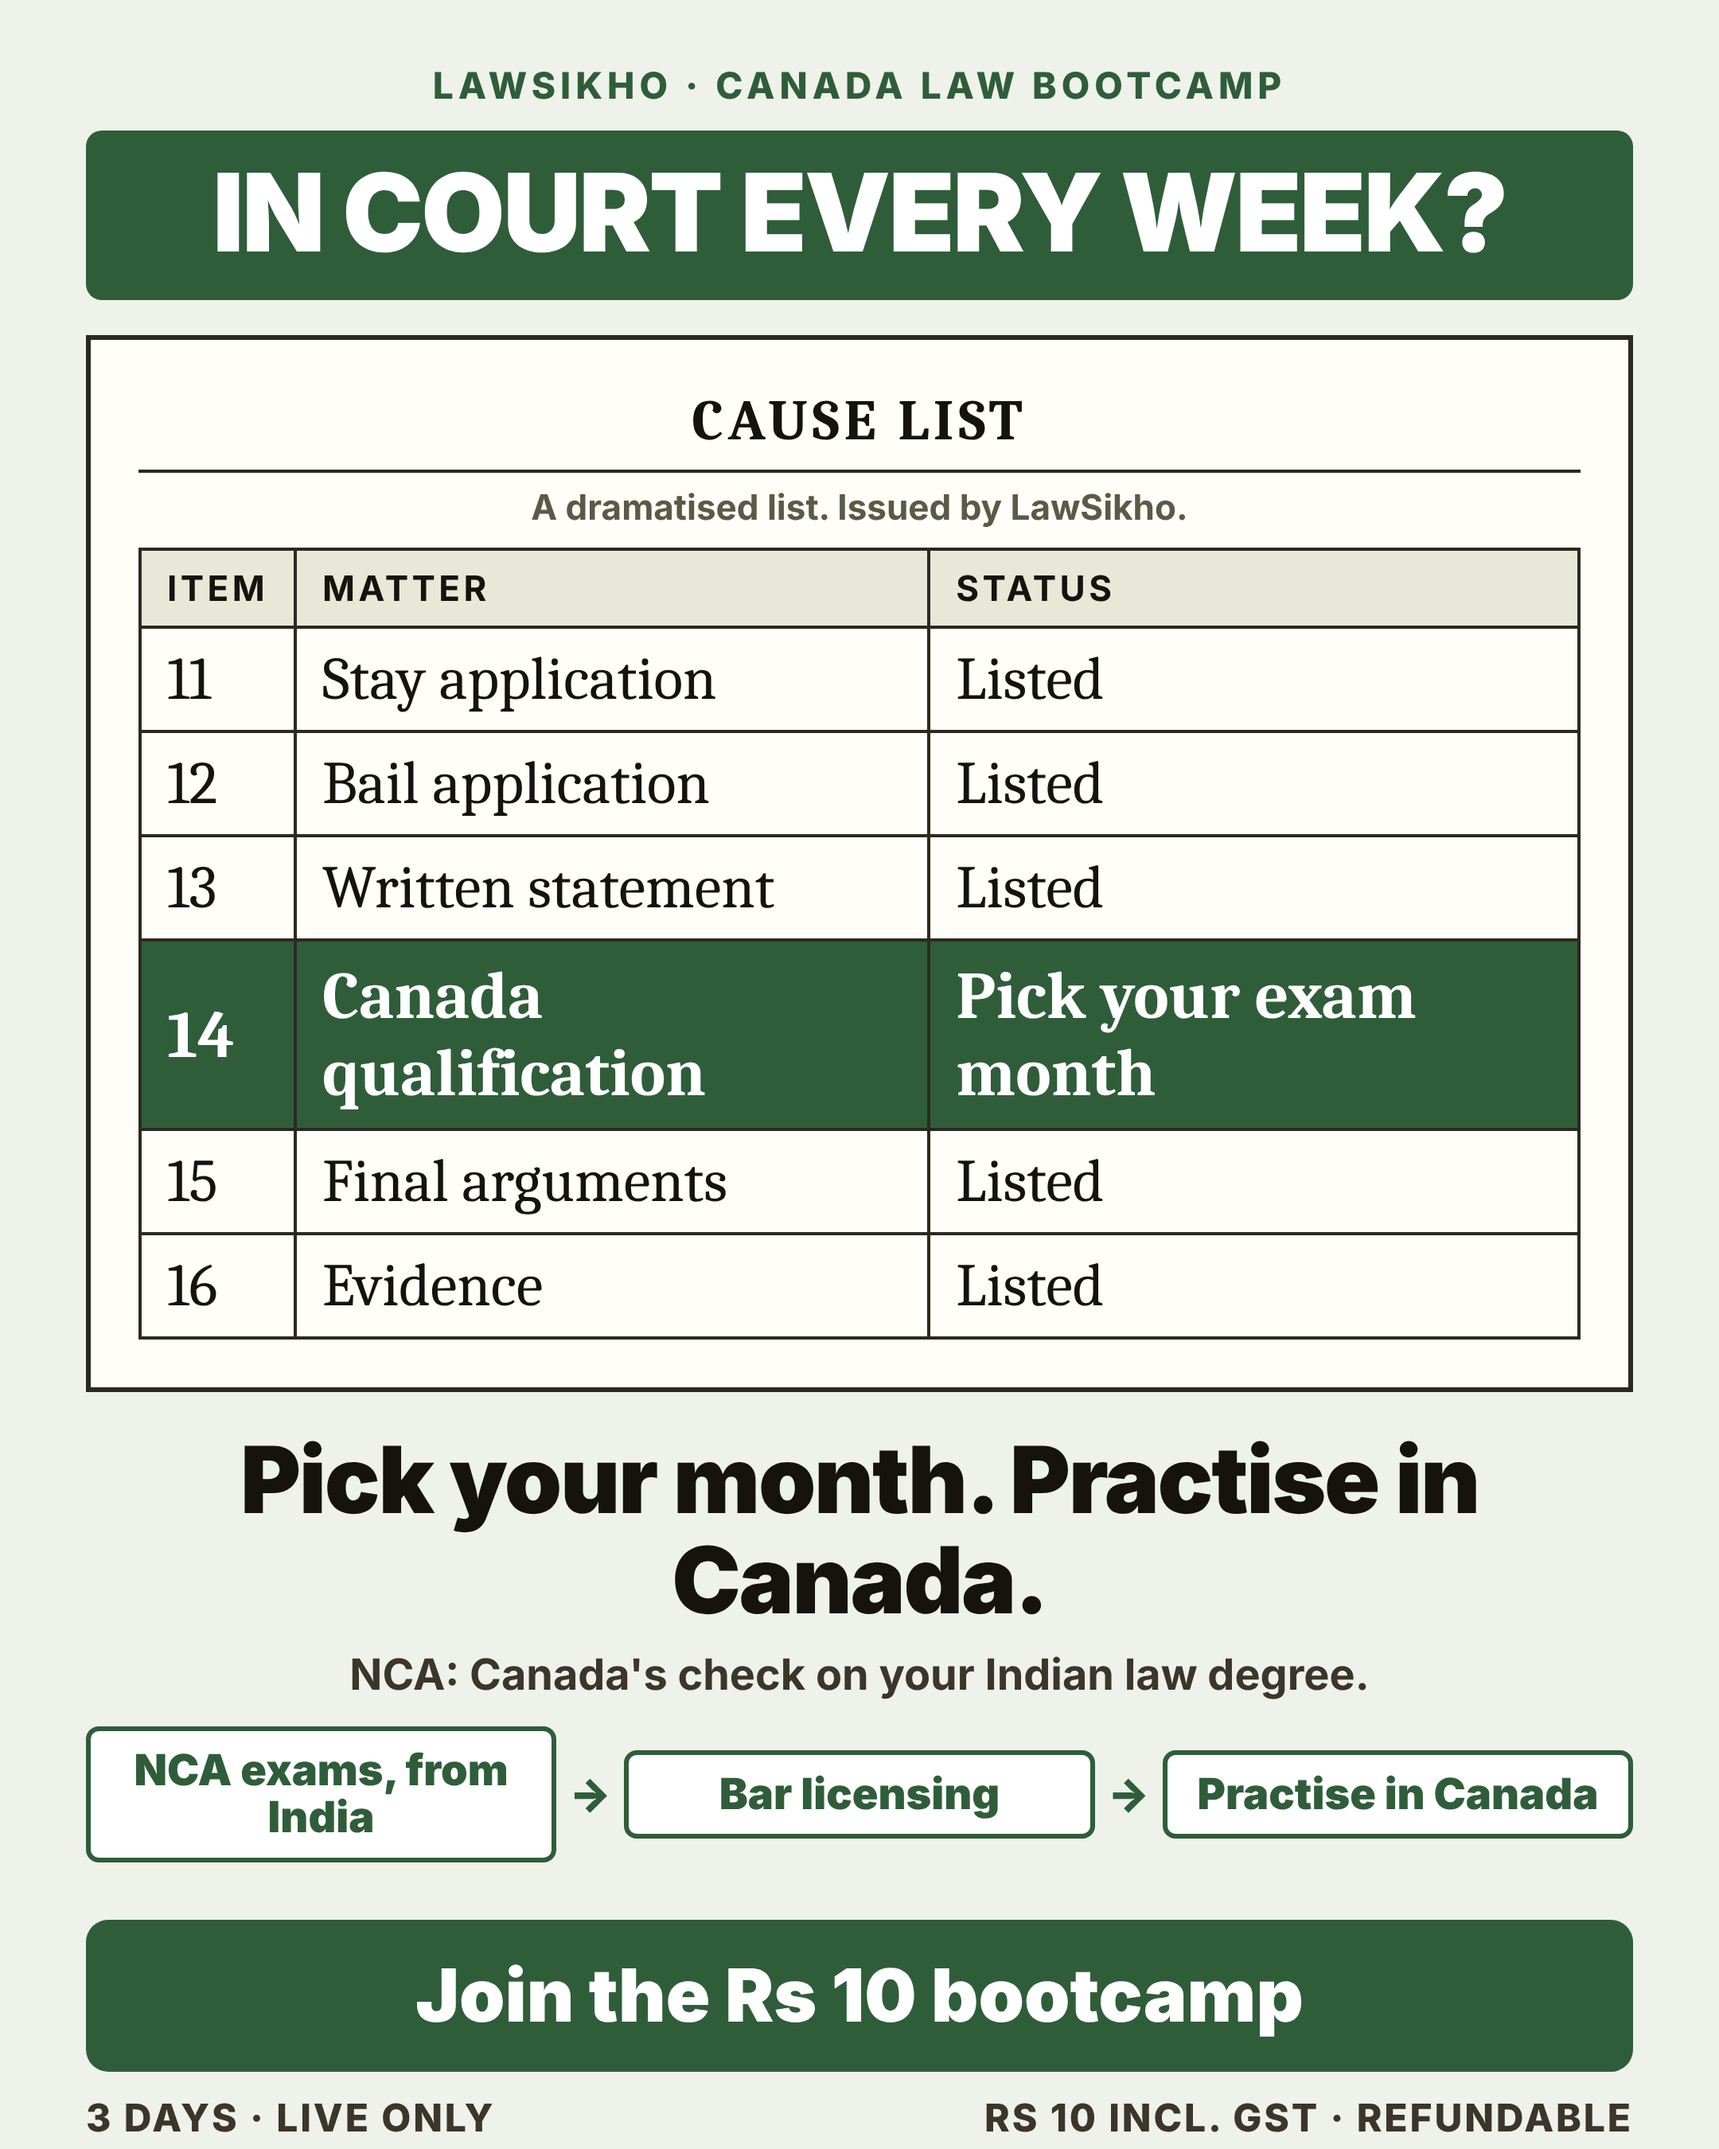
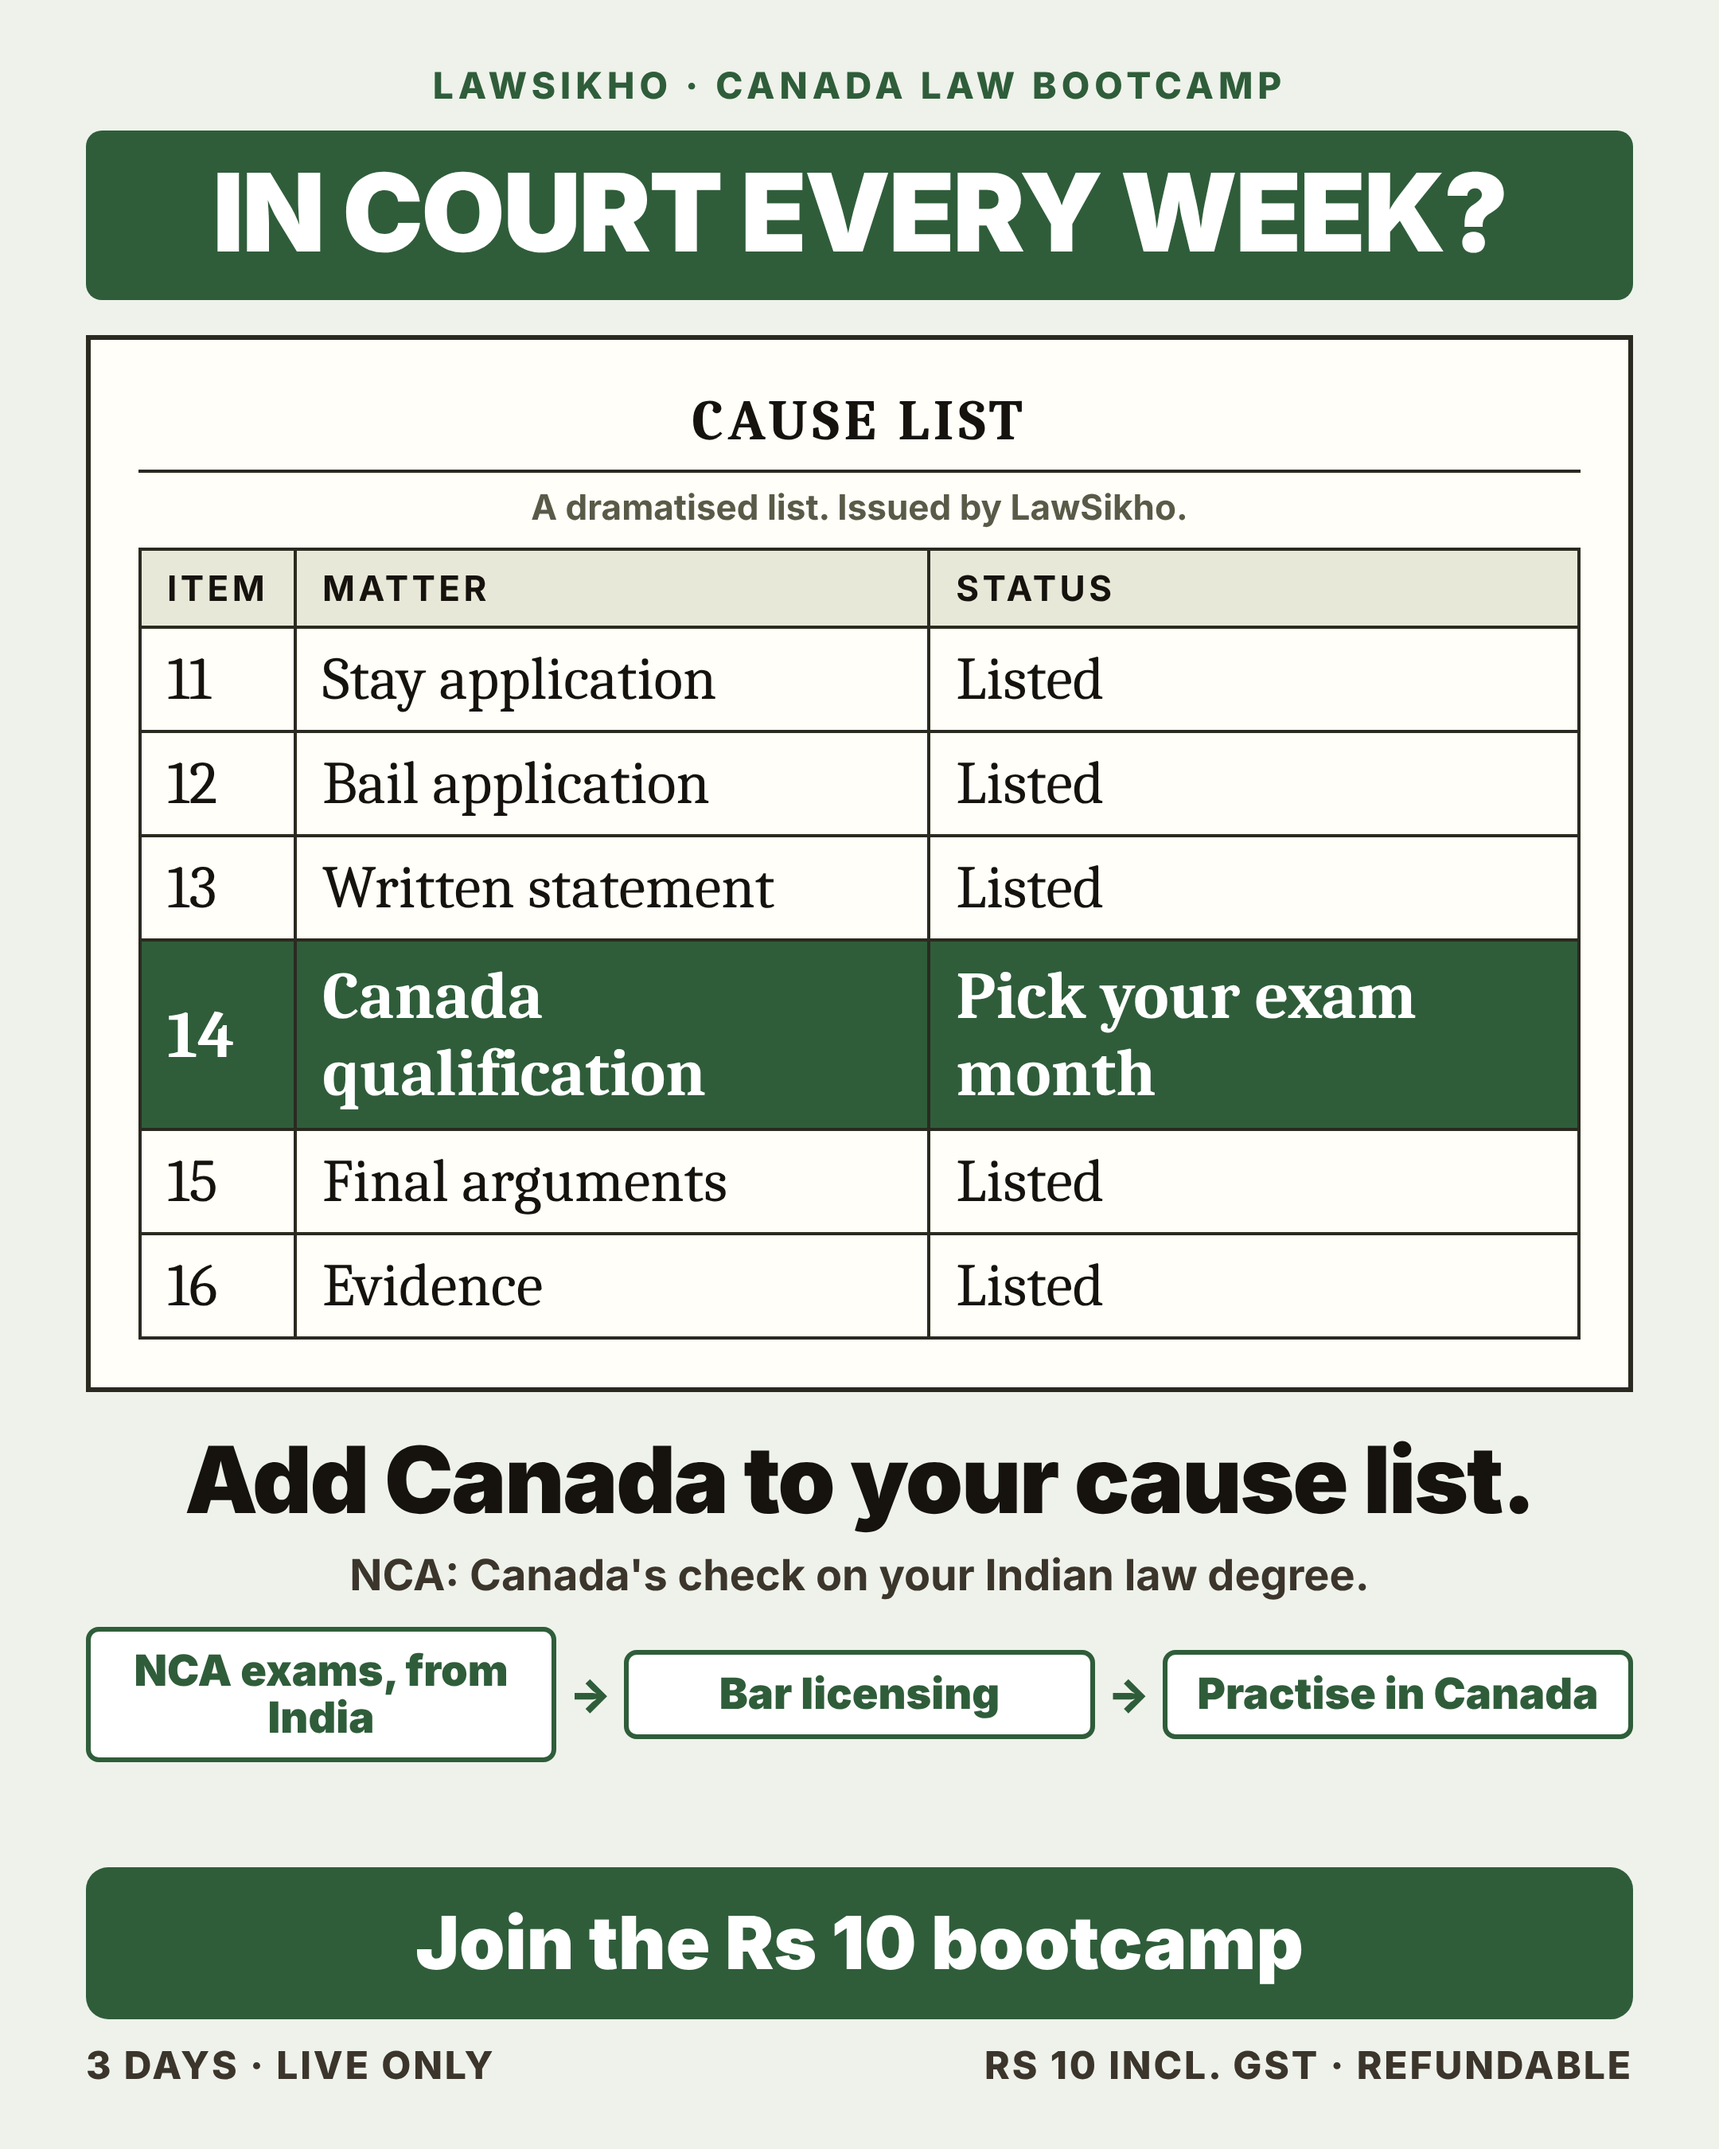
Shorten cause list head so it fits one line
Claude-Session: https://claude.ai/code/session_014GwCGjjynk2ro1PwVfGZP6

Changed region(s): [[0.031, 0.6533, 0.9616, 0.9956]]

diff --git a/creatives/NCA_Concepts_31Oct-2Nov/html/nca_c_02_causelist_litigators.html b/creatives/NCA_Concepts_31Oct-2Nov/html/nca_c_02_causelist_litigators.html
@@ -27,5 +27,5 @@ tr.hi td{background:#2F5D3A;color:#fff;font-weight:700;font-size:42px}</style></
 <tr class="hi"><td>14</td><td>Canada qualification</td><td>Pick your exam month</td></tr>
 <tr><td>15</td><td>Final arguments</td><td>Listed</td></tr>
 <tr><td>16</td><td>Evidence</td><td>Listed</td></tr></table></div>
-<div class="head">Pick your month. Practise in Canada.</div><div class="gloss">NCA: Canada's check on your Indian law degree.</div><div class="chips"><div class="s">NCA exams, from India</div><div class="a">&#8594;</div><div class="s">Bar licensing</div><div class="a">&#8594;</div><div class="s">Practise in Canada</div></div><div class="grow"></div><div class="bigbtn">Join the Rs 10 bootcamp</div>
+<div class="head">Add Canada to your cause list.</div><div class="gloss">NCA: Canada's check on your Indian law degree.</div><div class="chips"><div class="s">NCA exams, from India</div><div class="a">&#8594;</div><div class="s">Bar licensing</div><div class="a">&#8594;</div><div class="s">Practise in Canada</div></div><div class="grow"></div><div class="bigbtn">Join the Rs 10 bootcamp</div>
 <div class="foot"><div>3 days · Live only</div><div>Rs 10 incl. GST · Refundable</div></div></body></html>

diff --git a/creatives/NCA_Concepts_31Oct-2Nov/build.py b/creatives/NCA_Concepts_31Oct-2Nov/build.py
@@ -65,7 +65,7 @@ tr.hi td{background:%(ac)s;color:#fff;font-weight:700;font-size:42px}"""
 <tr class="hi"><td>14</td><td>Canada qualification</td><td>Pick your exam month</td></tr>
 <tr><td>15</td><td>Final arguments</td><td>Listed</td></tr>
 <tr><td>16</td><td>Evidence</td><td>Listed</td></tr></table></div>
-<div class="head">Pick your month. Practise in Canada.</div>""" + GLOSS + CHIPS + '<div class="grow"></div>' + FOOT
+<div class="head">Add Canada to your cause list.</div>""" + GLOSS + CHIPS + '<div class="grow"></div>' + FOOT
     return page(css, body, pal)
 
 def card():  # 4 fresh graduates

diff --git a/creatives/NCA_Concepts_31Oct-2Nov/ad_copy.md b/creatives/NCA_Concepts_31Oct-2Nov/ad_copy.md
@@ -6,7 +6,7 @@ Gloss on all: "NCA: Canada's check on your Indian law degree." Route chips: NCA 
 | File | Call-out | Format | Head |
 |---|---|---|---|
 | nca_c_01_chat_advocates | Experienced advocates? | WhatsApp chat, labelled dramatised | Practise law in Canada too. |
-| nca_c_02_causelist_litigators | In court every week? | Cause list, "Issued by LawSikho" | Pick your month. Practise in Canada. |
+| nca_c_02_causelist_litigators | In court every week? | Cause list, "Issued by LawSikho" | Add Canada to your cause list. |
 | nca_c_04_card_fresh_grads | Fresh out of law school? | Visiting card, labelled sample | Qualify as a lawyer in Canada. |
 | nca_c_06_route_movers | Planning to move to Canada? | Route map | Start Canada's exams from India. |
 | nca_c_08_calendar_associates | Law firm associates? | Calendar, labelled sample | Pick the month. Qualify in Canada. |
